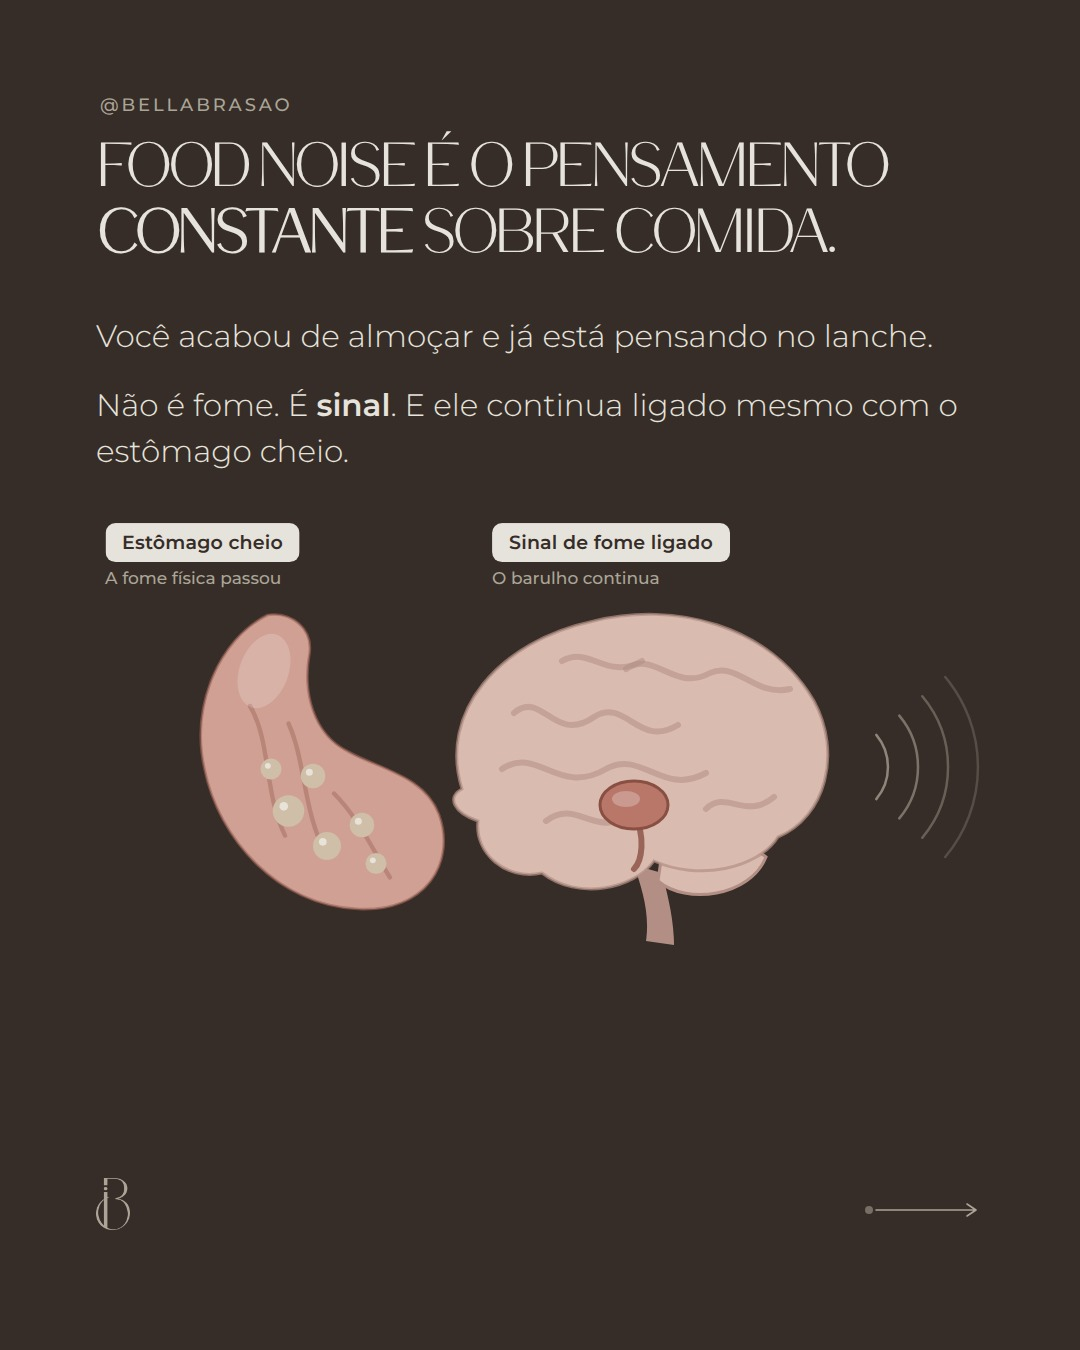
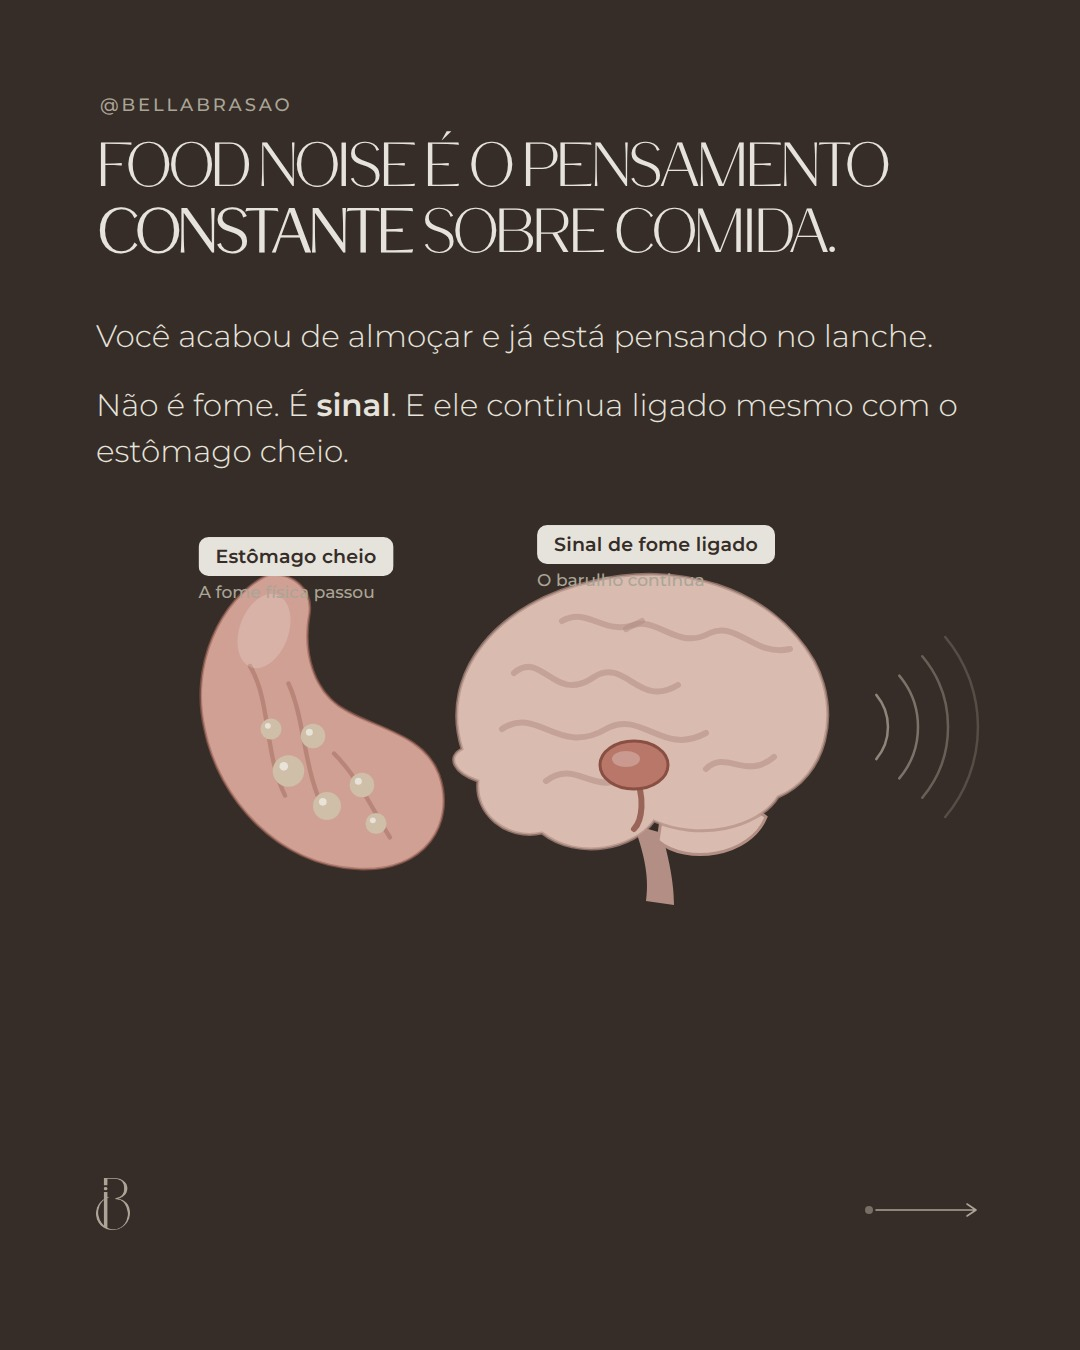
Etiqueta sobre a peça vira padrão (coordenadas sx/sy na cena); Food noise 02 e 05 ajustados
Claude-Session: https://claude.ai/code/session_0184aokY6yAxAMgYfK9MWu98

Changed region(s): [[0.0917, 0.3733, 0.7639, 0.7156], [0.7639, 0.4978, 0.9167, 0.6222]]

diff --git a/brand/ILLUSTRATION-GUIDE.md b/brand/ILLUSTRATION-GUIDE.md
@@ -65,6 +65,10 @@ em volta. Nada de desenho cruza faixa e nada de etiqueta cruza o miolo.
 composta numa caixa mais alta (888 × 520) com as peças maiores, pra preencher o espaço. O slide
 nunca fica com um terço vazio. Com três parágrafos, a caixa é 888 × 380.
 
+**Etiqueta sobre a peça (padrão):** a pílula vai em cima da peça que nomeia, na borda superior
+dela, como na capa e na referência. Em figura de largura cheia, posicione em pixels da própria
+cena (`sx`, `sy` no JSON). Faixas e colunas só quando a ilustração não tem onde receber a pílula.
+
 **Etiquetas coladas:** uma etiqueta que vive numa faixa é ancorada na borda do miolo (`edge: top`,
 `bottom`, `left` ou `right` no JSON) e invade a ilustração em 14 px, sempre por cima dela, nunca solta no meio da faixa.
 A peça que ela nomeia encosta nessa mesma borda, do lado de dentro.
